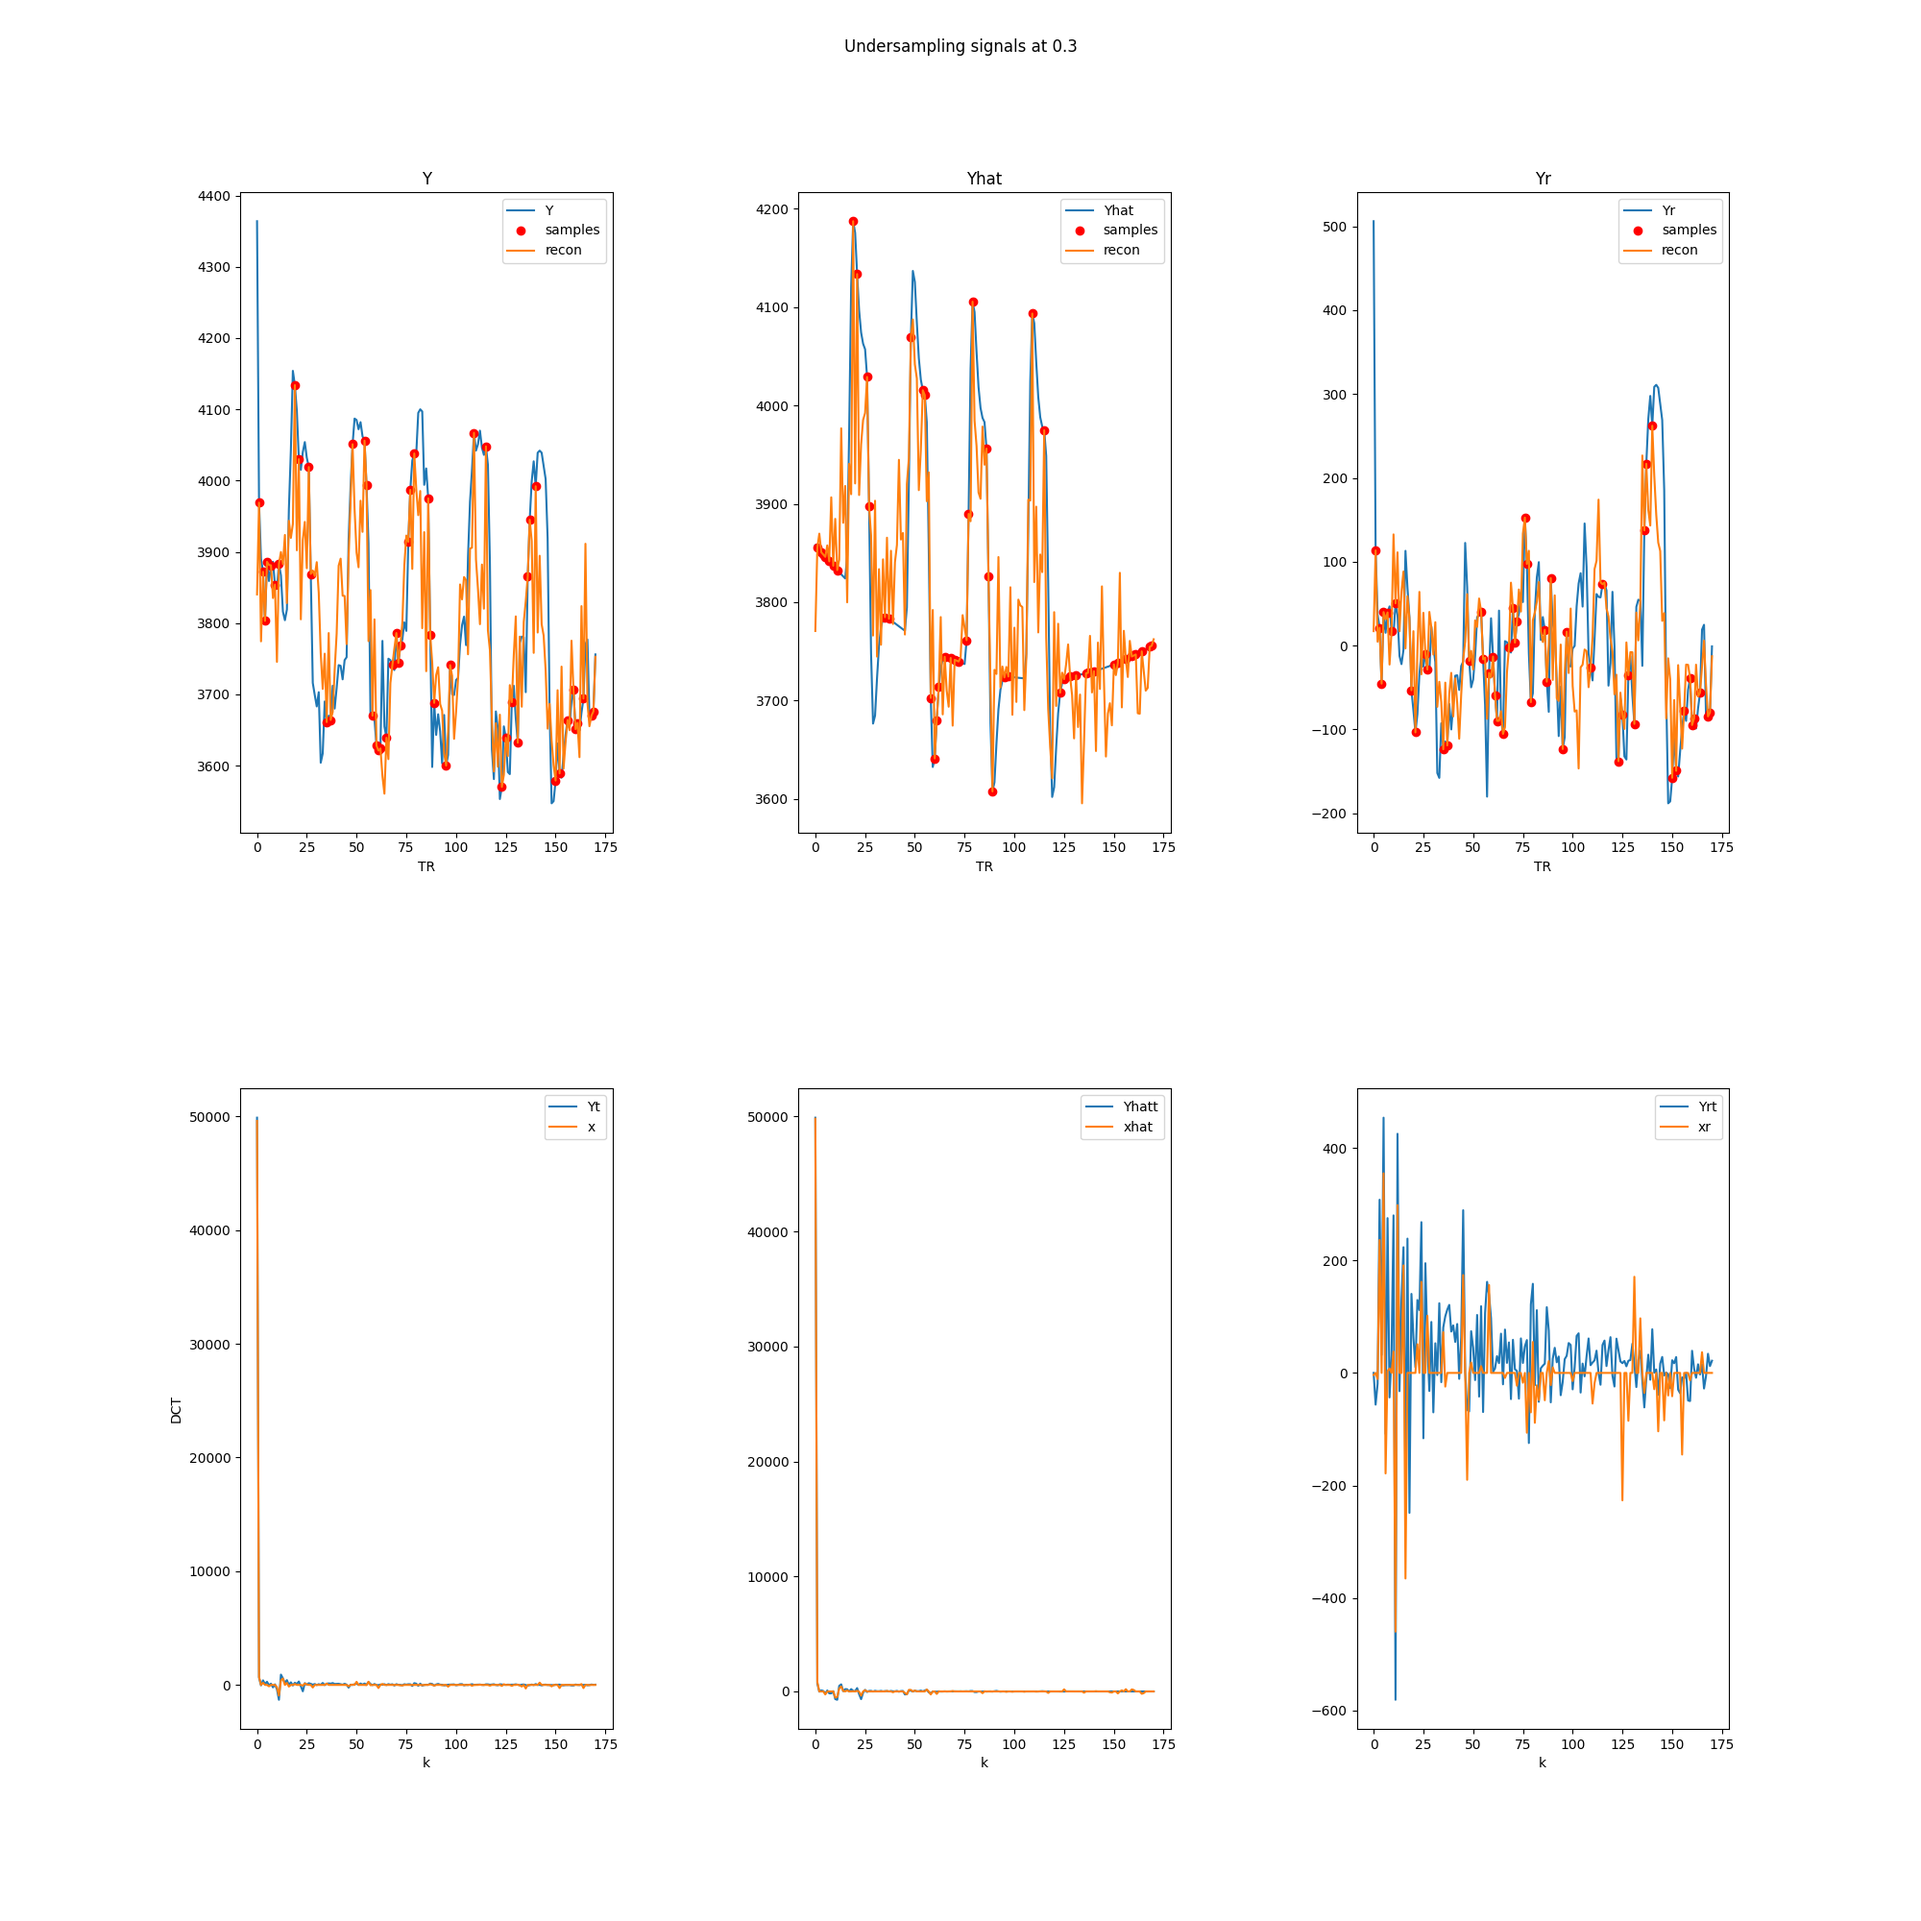
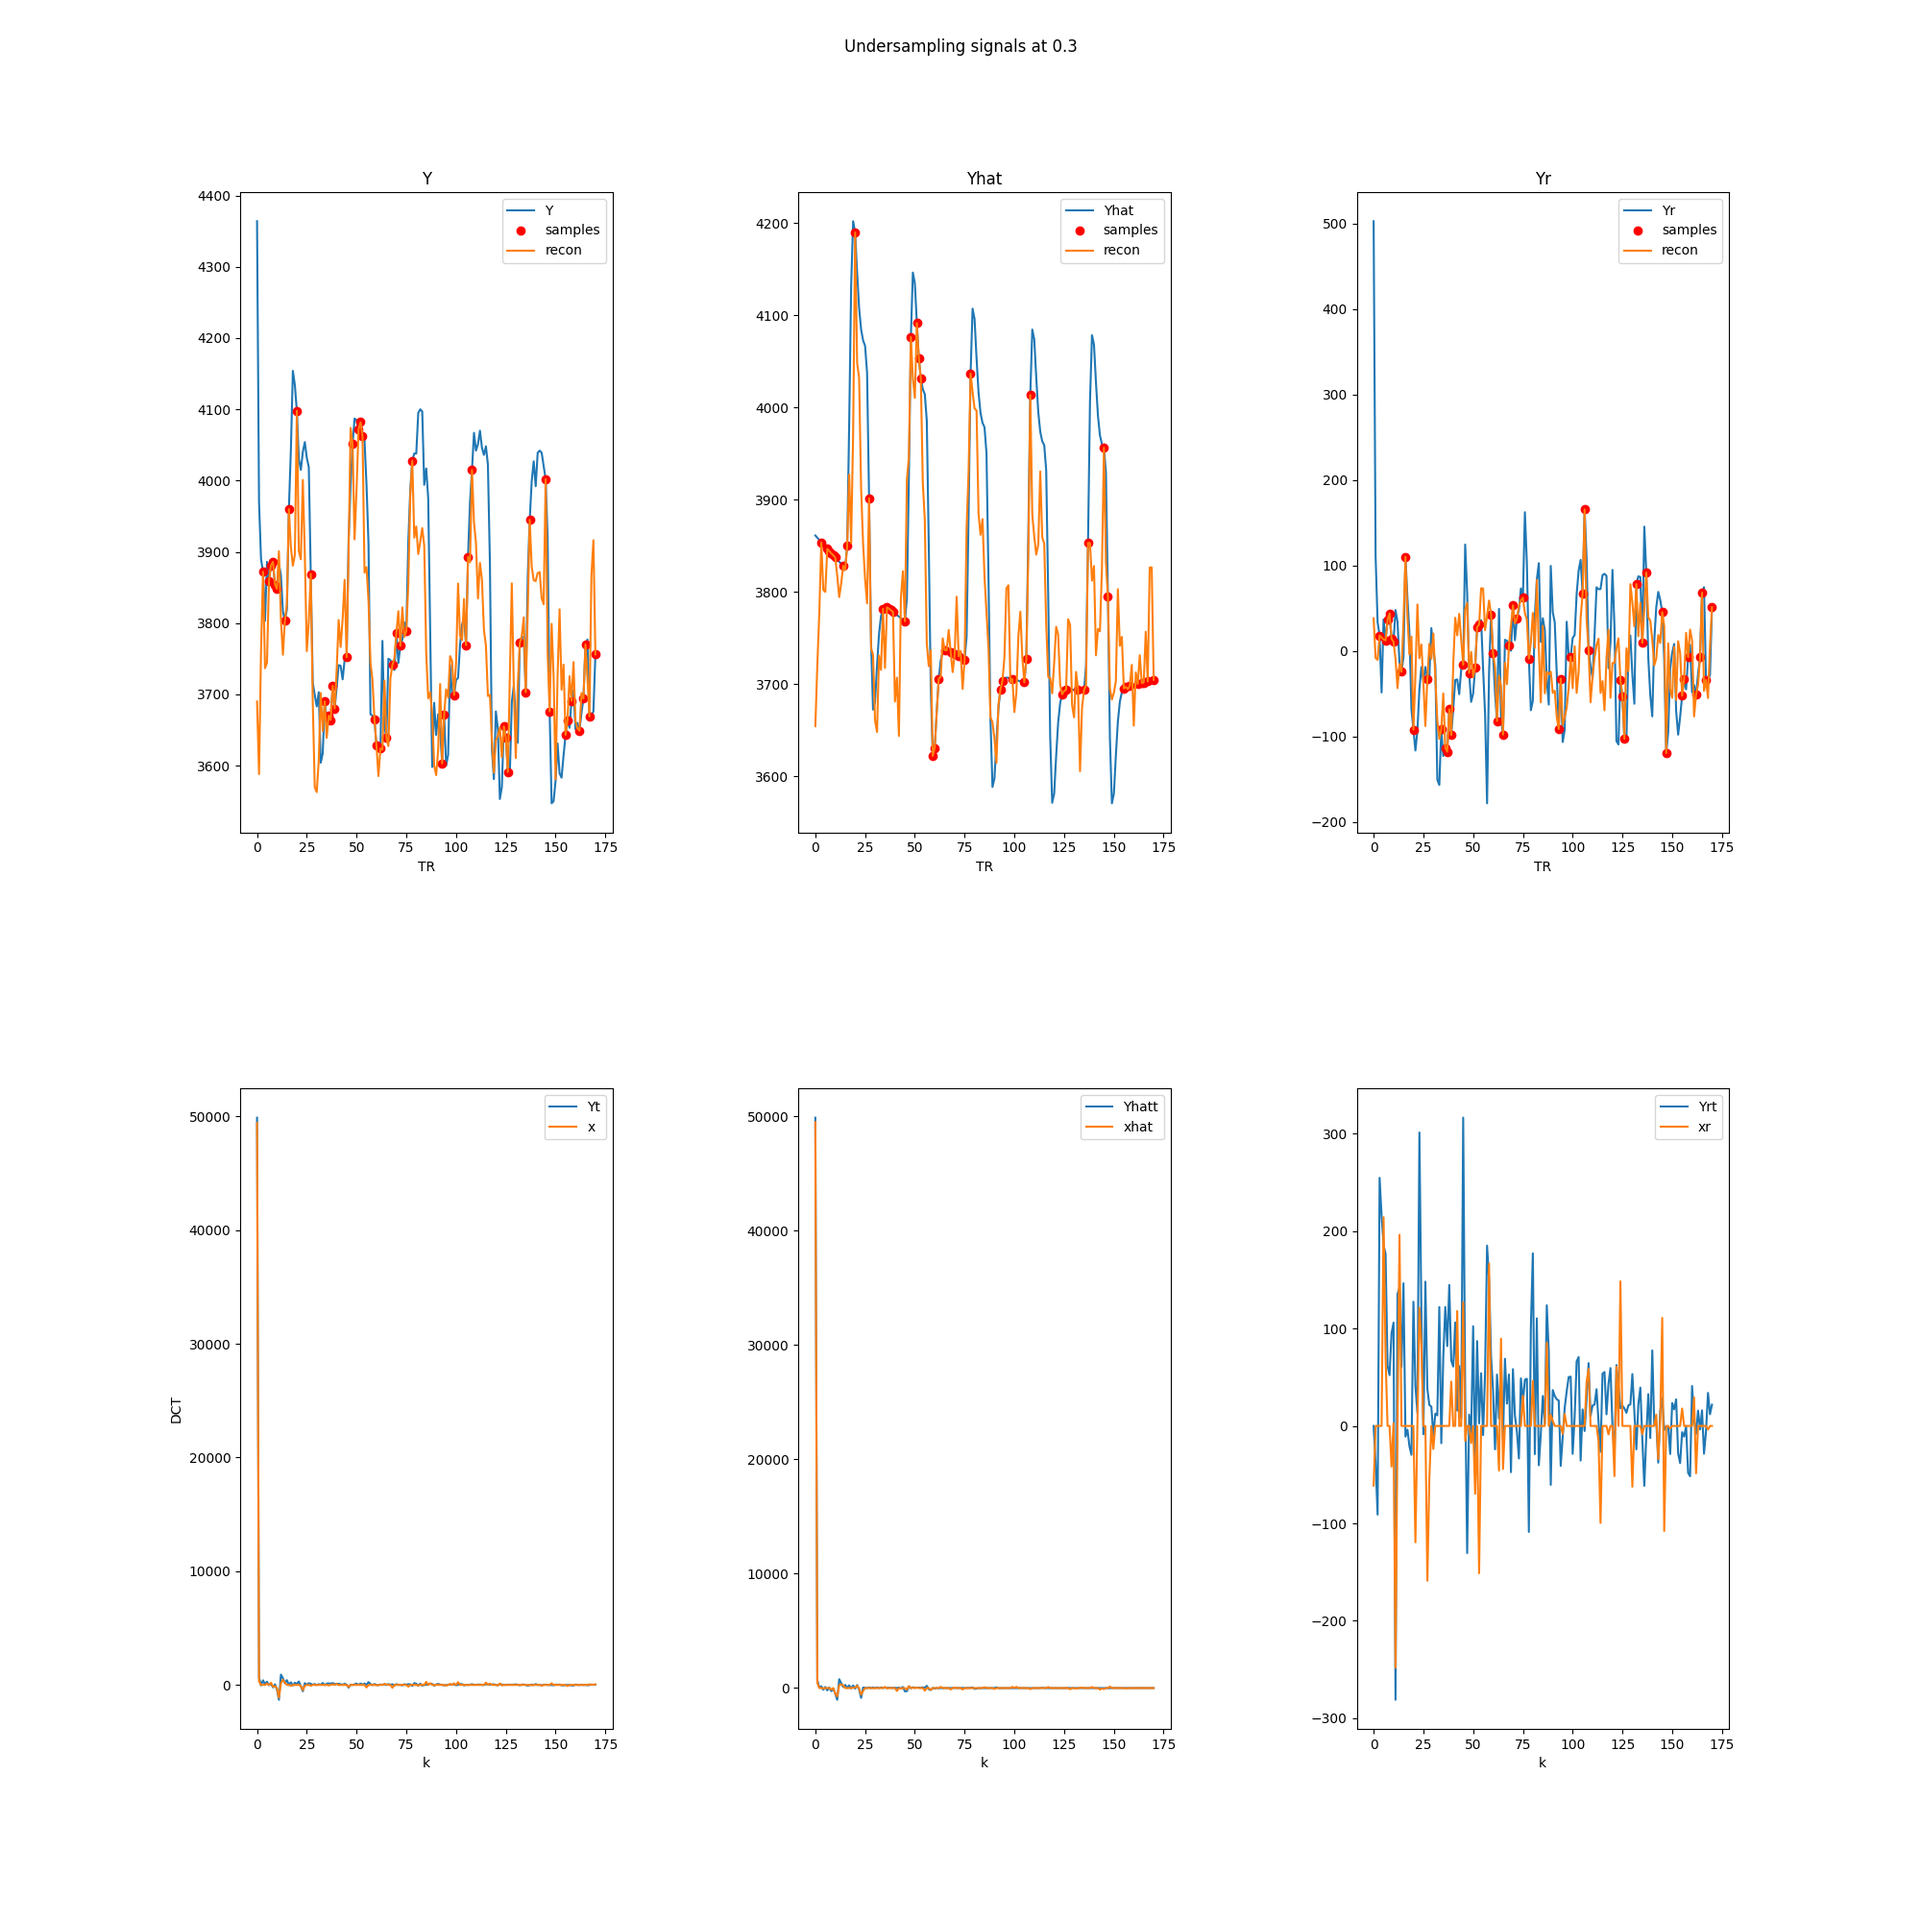
add nyquist resp rate

diff --git a/optCSfMRI-TS.py b/optCSfMRI-TS.py
@@ -20,14 +20,18 @@ from datetime import timedelta
 import nibabel as nb
 from util import double_gamma_HRF, create_task_impulse, CS_L1_opt
 
-def CS_Ex4(ffmri, ftask, slice=10):
+def CS_Ex4(ffmri, ftask, slice=10, verbose=False):
     """
     Compressed sensing on data from class exercise.
 
     Params:
-    ffmri = fMRI filename
-    ftask = task spreadsheet filename
-    slice = slice number for voxel analysis
+        ffmri = fMRI filename
+        ftask = task spreadsheet filename
+        slice = slice number for voxel analysis
+        verbose = true to display optimization summaries
+    
+    Returns:
+        void
     """
 
     fmri = nb.load(ffmri)
@@ -38,7 +42,13 @@ def CS_Ex4(ffmri, ftask, slice=10):
     t = np.arange(nframes)
 
     print('Generating HRF...')
-    t_hrf, hrf = double_gamma_HRF(TR)
+    t_hrf, hrf, nyHRF = double_gamma_HRF(TR)
+
+    rate = 1/TR
+    if rate >= nyHRF:
+        print('Sampled above the Nyquist rate for HRF. Rate = %.2f HZ >= %.2f Hz = Nyquist' % (rate, nyHRF))
+    else:
+        print('Sampled below the Nyquist rate for HRF. Rate = %.2f HZ < %.2f Hz = Nyquist' % (rate, nyHRF))
 
     plt.figure()
     plt.plot(t_hrf,hrf)
@@ -48,19 +58,31 @@ def CS_Ex4(ffmri, ftask, slice=10):
 
     # response function on 20-second task, every 60 secs, starting at 30 secs
     task = pd.read_csv(ftask, sep='\t')
-    onsets = np.arange(30, 270, 60) #TODO generalize to generic task input file
-    durations = np.ones(onsets.shape) * 20
-
+    onsets = task['onset'].to_numpy()
+    durations = task['duration'].to_numpy()
     impulse = create_task_impulse(nframes, onsets // TR, durations // TR)
     response = np.convolve(impulse, hrf, mode='full')  # mode = 'full', 'valid', 'same'
     response = response[:nframes]
 
+    respt = spfft.dct(response, norm='ortho')
+    impt = spfft.dct(impulse, norm='ortho')
+
     plt.figure()
+
+    plt.subplot(211)
     plt.plot(response, label='response')
     plt.plot(impulse, label='impulse')
     plt.xlabel('frame')
-    plt.title('expected response function')
+    plt.title('Expected response given impulse')
     plt.legend()
+    plt.subplot(212)
+    plt.plot(respt, label='resp DCT')
+    plt.plot(impt, label='imp DCT')
+    plt.xlabel('k')
+    plt.legend()
+    plt.title('Response + impulse DCT')
+
+    plt.subplots_adjust(top=0.90, bottom=0.1, hspace=0.5, wspace=0.5)
     plt.savefig('results/expected.png')
 
     # design matrix
@@ -145,6 +167,7 @@ def CS_Ex4(ffmri, ftask, slice=10):
     ### L1 convex optimization compressed sensing fMRI time series at varying granularity
 
     # undersample at 10% levels + sense via convex opt
+    errors = []
     levels = np.arange(0.1,1,0.1)
     A = spfft.idct(np.identity(nframes), norm='ortho', axis=0)  # inverse discrete cosine transform
     for level in levels:
@@ -159,13 +182,18 @@ def CS_Ex4(ffmri, ftask, slice=10):
         M = A[ri]
 
         # L1 optimizations + recon
-        x = CS_L1_opt(M, y1)
-        xhat = CS_L1_opt(M, yhat1)
-        xr = CS_L1_opt(M, yr1)
+        x = CS_L1_opt(M, y1, verbose=verbose)
+        xhat = CS_L1_opt(M, yhat1, verbose=verbose)
+        xr = CS_L1_opt(M, yr1, verbose=verbose)
 
         sig = spfft.idct(x, norm='ortho', axis=0)  # fully-sampled inverse cosine transform of input
         sighat = spfft.idct(xhat, norm='ortho', axis=0)
         sigr = spfft.idct(xr, norm='ortho', axis=0)
+        
+        y_err = np.mean(np.square(y - sig))
+        yhat_err = np.mean(np.square(yhat - sighat))
+        yr_err = np.mean(np.square(yr - sigr))
+        errors += [(y_err, yhat_err, yr_err)]
 
         # plot sensing results
         fig = plt.figure(figsize=(20,20))
@@ -215,8 +243,21 @@ def CS_Ex4(ffmri, ftask, slice=10):
         plt.subplots_adjust(top=0.90, bottom=0.1, hspace=0.4, wspace=0.5)
         plt.savefig('results/sensing_at_%.1f.png' % level)
 
-    #TODO plot error curve from each level MSE
+    # error curve
+    errors = np.asarray(errors)
+    nyHRFPercent = TR*nyHRF  # length*rate / nframes = nframes*TR*nyquist / nframes = TR*nyquist
+    nyRespPercent = TR*nyResp
 
+    plt.figure()
+    plt.plot(levels, errors[:,0], label='Y')
+    plt.plot(levels, errors[:, 1], label='Yhat')
+    plt.plot(levels, errors[:, 2], label='Yr')
+    plt.axvline(x=nyHRFPercent, label='% HRF Nyquist', c='c', ls='--')
+    plt.axvline(x=nyRespPercent, label='% Resp Nyquist', c='m', ls='--')
+    plt.xlabel('Percent sampled')
+    plt.ylabel('MSE')
+    plt.legend()
+    plt.savefig('results/error.png')
 
 def main(**kwargs):
     print('Executing...')

diff --git a/util/__init__.py b/util/__init__.py
@@ -13,8 +13,13 @@ def double_gamma_HRF(TR, tmax=30):
     of impulse response in event-related BOLD fMRI", Neuroimage 9(4):416-29.
 
     Params:
-    TR = temporal resolution at which to sample in tmax
-    tmax = maximum duration for HRF
+        TR = temporal resolution at which to sample in tmax
+        tmax = maximum duration for HRF
+
+    Returns:
+        t = time course underlying HRF
+        h = HRF sequence along t
+        nyquist = Nyquist sampling rate for fMRI volumes
     """
 
     # gamma params
@@ -33,7 +38,9 @@ def double_gamma_HRF(TR, tmax=30):
     h = h1/np.max(h1) - a2*h2/np.max(h2)
     h /= np.max(h)
 
-    return t, h
+    nyquist = 2*(1/tmax)  # double the frequency of 1 HRF at least
+
+    return t, h, nyquist
 
 
 def create_task_impulse(nframes, onsets, durations):
@@ -41,9 +48,12 @@ def create_task_impulse(nframes, onsets, durations):
     Create a task impulse function.
 
     Params:
-    nframes = number of frames, i.e., length of fMRI
-    onsets = list of onset frame indices
-    durations = list of durations in terms of frames
+        nframes = number of frames, i.e., length of fMRI
+        onsets = list of onset frame indices
+        durations = list of durations in terms of frames
+
+    Returns:
+        impulse = task impulse function
     """
 
     assert len(onsets) == len(durations), 'Each onset should have a corresponding duration.'
@@ -56,14 +66,17 @@ def create_task_impulse(nframes, onsets, durations):
 
     return impulse
 
-def CS_L1_opt(M, y):
+def CS_L1_opt(M, y, verbose=True):
     """
     Perform convex L1 optimization for sparse signal reconstruction to solve the compressed sensing problem:
     min ||x||_1 s.t. y = M @ x 
     
     Params: 
-    M = undersampled sparese measurement matrix reflecting the basis of observations
-    y = undersampled observations s.t. m < n for measurement matrix
+        M = undersampled sparese measurement matrix reflecting the basis of observations
+        y = undersampled observations s.t. m < n for measurement matrix
+
+    Returns:
+        x_rec = recovered signal
     """
     
     # perform optimization
@@ -71,7 +84,7 @@ def CS_L1_opt(M, y):
     objective = cvx.Minimize(cvx.norm(x, 1))
     constraints = [M @ x == y]
     prob = cvx.Problem(objective, constraints)
-    result = prob.solve(verbose=True)
+    result = prob.solve(verbose=verbose)
 
     # reconstruct signals
     x_rec = np.array(x.value)
